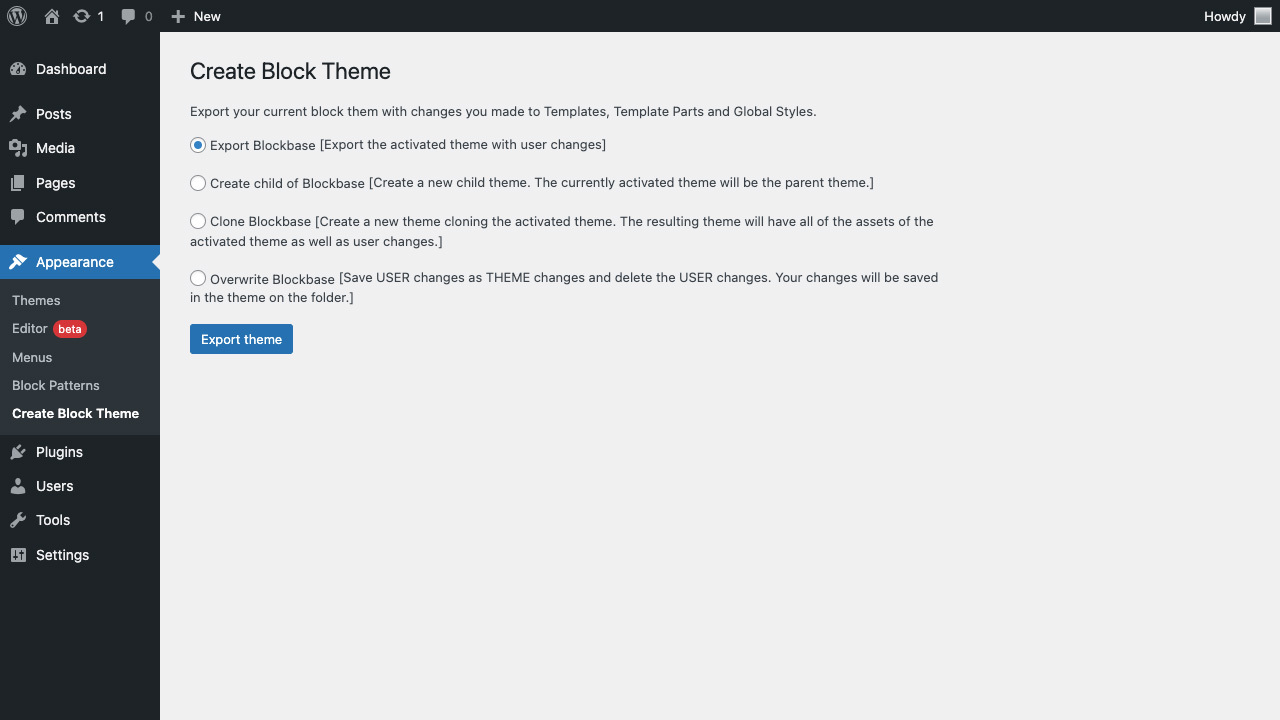
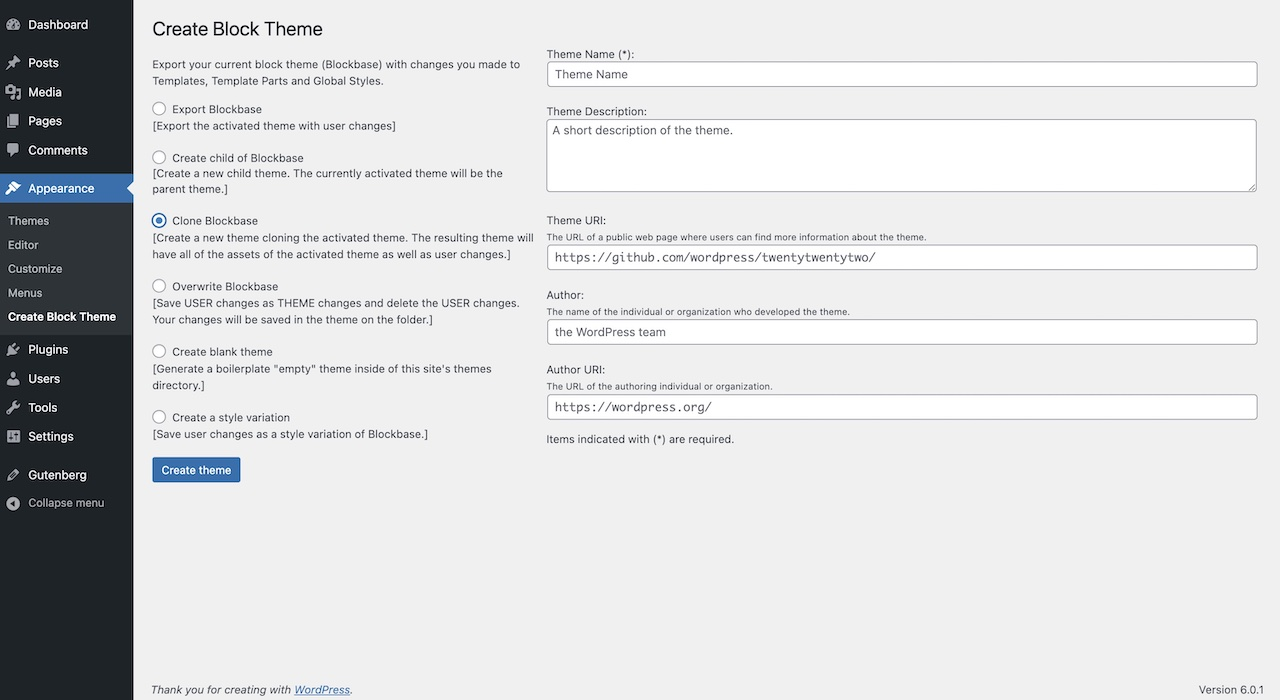
update links, screenshots of the new changes

diff --git a/admin/class-create-block-theme-admin.php b/admin/class-create-block-theme-admin.php
@@ -609,6 +609,7 @@ class Create_Block_Theme_Admin {
 		$uri = $theme['uri'];
 		$author = $theme['author'];
 		$author_uri = $theme['author_uri'];
+		$copyYear = date('Y');
 
 		return "=== {$name} ===
 Contributors: {$author}
@@ -629,7 +630,7 @@ License URI: http://www.gnu.org/licenses/gpl-2.0.html
 
 == Copyright ==
 
-{$name} WordPress Theme, (C) 2022 {$author}
+{$name} WordPress Theme, (C) {$copyYear} {$author}
 {$name} is distributed under the terms of the GNU GPL.
 
 This program is free software: you can redistribute it and/or modify

diff --git a/create-block-theme.php b/create-block-theme.php
@@ -3,7 +3,7 @@
 /**
  * @wordpress-plugin
  * Plugin Name: Create Block Theme
- * Plugin URI: https://github.com/WordPress/create-block-theme
+ * Plugin URI: https://wordpress.org/plugins/create-block-theme
  * Description: Generates a block theme
  * Version: 1.1.2
  * Author: WordPress.org

diff --git a/README.md b/README.md
@@ -16,7 +16,7 @@ Creates a new theme by cloning the activated theme. The resulting theme will hav
 Saves user's changes to the theme files and deletes the user's changes.
 
 ### Step 1 – Setup
-Install and activate the [Create Block Theme](https://github.com/WordPress/create-block-theme) plugin. You will also need to be running the latest version of the Gutenberg plugin.
+Install and activate the [Create Block Theme](https://wordpress.org/plugins/create-block-theme) plugin.
 
 ### Step 2 – Style Customizations
 Make changes to your site design using the Site Editor.
@@ -27,4 +27,4 @@ Edit your templates using the Site Editor. For some things you might need to edi
 ### Step 4 – Save
 In the WordPress Admin Dashboard, under Appearance there will be a new page called “Create Block Theme”.
 
-Select one of the 4 options and then, if necessary, add the details for the theme here. These details will be used in the style.css file. When you click the "Export Theme” button, your theme will be saved.
+Select one of the available options and then, if necessary, add the details for the theme here. These details will be used in the style.css file. Click "Create theme” button, to save the theme.
